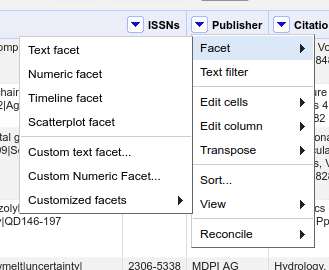
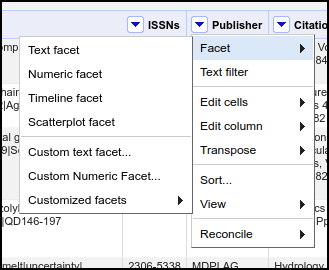
site deploy
Auto-generated via `{sandpaper}`
Source  : be62de8b346116945840560bec204c666f98137d
Branch  : md-outputs
Author  : GitHub Actions <actions@github.com>
Time    : 2025-09-02 18:59:36 +0000
Message : markdown source builds

Auto-generated via `{sandpaper}`
Source  : 20f233128f84c9abb1ff4f1b21176bd181319808
Branch  : main
Author  : Jeff Oliver <jcoliver@arizona.edu>
Time    : 2025-09-02 18:56:14 +0000
Message : Add border to two OpenRefine screenshots

Changed region(s): [[0.0, 0.0, 1.0, 1.0]]

diff --git a/instructor/aio.html b/instructor/aio.html
@@ -849,7 +849,7 @@ continuing.</p>
 <button class="accordion-button instructor-button collapsed" type="button" data-bs-toggle="collapse" data-bs-target="#collapseInstructor1" aria-expanded="false" aria-controls="collapseInstructor1">
   <h3 class="accordion-header" id="headingInstructor1">  <div class="note-square"><i aria-hidden="true" class="callout-icon" data-feather="edit-2"></i></div> Instructor Note </h3>
 </button>
-<div id="collapseInstructor1" class="accordion-collapse collapse" data-bs-parent="#accordionInstructor1" aria-labelledby="headingInstructor1">
+<div id="collapseInstructor1" class="accordion-collapse collapse" aria-labelledby="headingInstructor1" data-bs-parent="#accordionInstructor1">
 <div class="accordion-body">
 <p>Learners may be prompted to use the Basic or Expert interface when
 VirutalBox is run for the first time. Learners should select Basic.</p>
@@ -909,7 +909,7 @@ than your normal computer?</p>
 <button class="accordion-button instructor-button collapsed" type="button" data-bs-toggle="collapse" data-bs-target="#collapseInstructor2" aria-expanded="false" aria-controls="collapseInstructor2">
   <h3 class="accordion-header" id="headingInstructor2">  <div class="note-square"><i aria-hidden="true" class="callout-icon" data-feather="edit-2"></i></div> Instructor Note </h3>
 </button>
-<div id="collapseInstructor2" class="accordion-collapse collapse" data-bs-parent="#accordionInstructor2" aria-labelledby="headingInstructor2">
+<div id="collapseInstructor2" class="accordion-collapse collapse" aria-labelledby="headingInstructor2" data-bs-parent="#accordionInstructor2">
 <div class="accordion-body">
 <p>If students get an error opening VirtualBox or importing the VM,
 there may be something you can do (reinstalling, rebooting, checking
@@ -966,7 +966,7 @@ signal” option and the “Power off the machine” option?</p>
 <button class="accordion-button solution-button collapsed" type="button" data-bs-toggle="collapse" data-bs-target="#collapseSolution1" aria-expanded="false" aria-controls="collapseSolution1">
   <h4 class="accordion-header" id="headingSolution1"> Show me the solution </h4>
 </button>
-<div id="collapseSolution1" class="accordion-collapse collapse" data-bs-parent="#accordionSolution1" aria-labelledby="headingSolution1">
+<div id="collapseSolution1" class="accordion-collapse collapse" aria-labelledby="headingSolution1" data-bs-parent="#accordionSolution1">
 <div class="accordion-body">
 <p>The “power off the machine option” is the equivalent of ripping out
 the power cable from the wall. It will immediately terminate the VM
@@ -1029,7 +1029,7 @@ the VM again?</p>
 <button class="accordion-button solution-button collapsed" type="button" data-bs-toggle="collapse" data-bs-target="#collapseSolution2" aria-expanded="false" aria-controls="collapseSolution2">
   <h4 class="accordion-header" id="headingSolution2"> Show me the solution </h4>
 </button>
-<div id="collapseSolution2" class="accordion-collapse collapse" data-bs-parent="#accordionSolution2" aria-labelledby="headingSolution2">
+<div id="collapseSolution2" class="accordion-collapse collapse" aria-labelledby="headingSolution2" data-bs-parent="#accordionSolution2">
 <div class="accordion-body">
 <p>The VM should look exactly the same as before you deleted the
 snapshot. The difference is that you will no longer be able to go back
@@ -1043,7 +1043,7 @@ to the state that was stored in the snapshot.</p>
 <button class="accordion-button spoiler-button collapsed" type="button" data-bs-toggle="collapse" data-bs-target="#collapseSpoiler1" aria-expanded="false" aria-controls="collapseSpoiler1">
   <h3 class="accordion-header" id="headingSpoiler1">  <div class="note-square"><i aria-hidden="true" class="callout-icon" data-feather="eye"></i></div> Multiple Snapshots </h3>
 </button>
-<div id="collapseSpoiler1" class="accordion-collapse collapse" data-bs-parent="#accordionSpoiler1" aria-labelledby="headingSpoiler1">
+<div id="collapseSpoiler1" class="accordion-collapse collapse" aria-labelledby="headingSpoiler1" data-bs-parent="#accordionSpoiler1">
 <div class="accordion-body">
 <p>It is possible to create multiple snapshots. This is useful to be
 able to return the state of the VM to various points in time. Creating
@@ -1123,7 +1123,7 @@ expected, why? (Feel free to do an internet search for the answer).</p>
 <button class="accordion-button solution-button collapsed" type="button" data-bs-toggle="collapse" data-bs-target="#collapseSolution3" aria-expanded="false" aria-controls="collapseSolution3">
   <h4 class="accordion-header" id="headingSolution3"> Show me the solution </h4>
 </button>
-<div id="collapseSolution3" class="accordion-collapse collapse" data-bs-parent="#accordionSolution3" aria-labelledby="headingSolution3">
+<div id="collapseSolution3" class="accordion-collapse collapse" aria-labelledby="headingSolution3" data-bs-parent="#accordionSolution3">
 <div class="accordion-body">
 <ol style="list-style-type: lower-alpha">
 <li><p>Performance should increase, especially when applications are
@@ -2093,7 +2093,7 @@ include the Dockerfile.</p>
 <button class="accordion-button solution-button collapsed" type="button" data-bs-toggle="collapse" data-bs-target="#collapseSolution1" aria-expanded="false" aria-controls="collapseSolution1">
   <h4 class="accordion-header" id="headingSolution1"> Show me the solution </h4>
 </button>
-<div id="collapseSolution1" class="accordion-collapse collapse" aria-labelledby="headingSolution1" data-bs-parent="#accordionSolution1">
+<div id="collapseSolution1" class="accordion-collapse collapse" data-bs-parent="#accordionSolution1" aria-labelledby="headingSolution1">
 <div class="accordion-body">
 <ul>
 <li>To use an analogy from architecture, Dockerfiles are a file with
@@ -2190,7 +2190,7 @@ version 3.12 (instead of Python version 3.9)</li>
 <button class="accordion-button solution-button collapsed" type="button" data-bs-toggle="collapse" data-bs-target="#collapseSolution2" aria-expanded="false" aria-controls="collapseSolution2">
   <h4 class="accordion-header" id="headingSolution2"> Update the Dockerfile </h4>
 </button>
-<div id="collapseSolution2" class="accordion-collapse collapse" aria-labelledby="headingSolution2" data-bs-parent="#accordionSolution2">
+<div id="collapseSolution2" class="accordion-collapse collapse" data-bs-parent="#accordionSolution2" aria-labelledby="headingSolution2">
 <div class="accordion-body">
 <p>To change the base image, update the information passed to the
 <code>FROM</code> command. That is, open the Dockerfile and change this
@@ -2327,7 +2327,7 @@ your changes were updated.</p>
 <button class="accordion-button solution-button collapsed" type="button" data-bs-toggle="collapse" data-bs-target="#collapseSolution3" aria-expanded="false" aria-controls="collapseSolution3">
   <h4 class="accordion-header" id="headingSolution3"> Update the Dockerfile to use Python 3.13 </h4>
 </button>
-<div id="collapseSolution3" class="accordion-collapse collapse" aria-labelledby="headingSolution3" data-bs-parent="#accordionSolution3">
+<div id="collapseSolution3" class="accordion-collapse collapse" data-bs-parent="#accordionSolution3" aria-labelledby="headingSolution3">
 <div class="accordion-body">
 <ul>
 <li>Open the Dockerfile in a text editor (we have been using nano, so
@@ -2446,7 +2446,7 @@ any links that you are not going to use.
   "creativeWorkStatus": "active",
   "url": "https://carpentries.github.io/workbench-template-md/instructor/aio.html",
   "identifier": "https://carpentries.github.io/workbench-template-md/instructor/aio.html",
-  "dateCreated": "2025-08-14",
+  "dateCreated": "2025-09-02",
   "dateModified": "2025-09-02",
   "datePublished": "2025-09-02"
 }

diff --git a/aio.html b/aio.html
@@ -851,7 +851,7 @@ signal” option and the “Power off the machine” option?</p>
 <button class="accordion-button solution-button collapsed" type="button" data-bs-toggle="collapse" data-bs-target="#collapseSolution1" aria-expanded="false" aria-controls="collapseSolution1">
   <h4 class="accordion-header" id="headingSolution1"> Show me the solution </h4>
 </button>
-<div id="collapseSolution1" class="accordion-collapse collapse" data-bs-parent="#accordionSolution1" aria-labelledby="headingSolution1">
+<div id="collapseSolution1" class="accordion-collapse collapse" aria-labelledby="headingSolution1" data-bs-parent="#accordionSolution1">
 <div class="accordion-body">
 <p>The “power off the machine option” is the equivalent of ripping out
 the power cable from the wall. It will immediately terminate the VM
@@ -914,7 +914,7 @@ the VM again?</p>
 <button class="accordion-button solution-button collapsed" type="button" data-bs-toggle="collapse" data-bs-target="#collapseSolution2" aria-expanded="false" aria-controls="collapseSolution2">
   <h4 class="accordion-header" id="headingSolution2"> Show me the solution </h4>
 </button>
-<div id="collapseSolution2" class="accordion-collapse collapse" data-bs-parent="#accordionSolution2" aria-labelledby="headingSolution2">
+<div id="collapseSolution2" class="accordion-collapse collapse" aria-labelledby="headingSolution2" data-bs-parent="#accordionSolution2">
 <div class="accordion-body">
 <p>The VM should look exactly the same as before you deleted the
 snapshot. The difference is that you will no longer be able to go back
@@ -928,7 +928,7 @@ to the state that was stored in the snapshot.</p>
 <button class="accordion-button spoiler-button collapsed" type="button" data-bs-toggle="collapse" data-bs-target="#collapseSpoiler1" aria-expanded="false" aria-controls="collapseSpoiler1">
   <h3 class="accordion-header" id="headingSpoiler1">  <div class="note-square"><i aria-hidden="true" class="callout-icon" data-feather="eye"></i></div> Multiple Snapshots </h3>
 </button>
-<div id="collapseSpoiler1" class="accordion-collapse collapse" data-bs-parent="#accordionSpoiler1" aria-labelledby="headingSpoiler1">
+<div id="collapseSpoiler1" class="accordion-collapse collapse" aria-labelledby="headingSpoiler1" data-bs-parent="#accordionSpoiler1">
 <div class="accordion-body">
 <p>It is possible to create multiple snapshots. This is useful to be
 able to return the state of the VM to various points in time. Creating
@@ -1008,7 +1008,7 @@ expected, why? (Feel free to do an internet search for the answer).</p>
 <button class="accordion-button solution-button collapsed" type="button" data-bs-toggle="collapse" data-bs-target="#collapseSolution3" aria-expanded="false" aria-controls="collapseSolution3">
   <h4 class="accordion-header" id="headingSolution3"> Show me the solution </h4>
 </button>
-<div id="collapseSolution3" class="accordion-collapse collapse" data-bs-parent="#accordionSolution3" aria-labelledby="headingSolution3">
+<div id="collapseSolution3" class="accordion-collapse collapse" aria-labelledby="headingSolution3" data-bs-parent="#accordionSolution3">
 <div class="accordion-body">
 <ol style="list-style-type: lower-alpha">
 <li><p>Performance should increase, especially when applications are
@@ -1936,7 +1936,7 @@ include the Dockerfile.</p>
 <button class="accordion-button solution-button collapsed" type="button" data-bs-toggle="collapse" data-bs-target="#collapseSolution1" aria-expanded="false" aria-controls="collapseSolution1">
   <h4 class="accordion-header" id="headingSolution1"> Show me the solution </h4>
 </button>
-<div id="collapseSolution1" class="accordion-collapse collapse" aria-labelledby="headingSolution1" data-bs-parent="#accordionSolution1">
+<div id="collapseSolution1" class="accordion-collapse collapse" data-bs-parent="#accordionSolution1" aria-labelledby="headingSolution1">
 <div class="accordion-body">
 <ul>
 <li>To use an analogy from architecture, Dockerfiles are a file with
@@ -2033,7 +2033,7 @@ version 3.12 (instead of Python version 3.9)</li>
 <button class="accordion-button solution-button collapsed" type="button" data-bs-toggle="collapse" data-bs-target="#collapseSolution2" aria-expanded="false" aria-controls="collapseSolution2">
   <h4 class="accordion-header" id="headingSolution2"> Update the Dockerfile </h4>
 </button>
-<div id="collapseSolution2" class="accordion-collapse collapse" aria-labelledby="headingSolution2" data-bs-parent="#accordionSolution2">
+<div id="collapseSolution2" class="accordion-collapse collapse" data-bs-parent="#accordionSolution2" aria-labelledby="headingSolution2">
 <div class="accordion-body">
 <p>To change the base image, update the information passed to the
 <code>FROM</code> command. That is, open the Dockerfile and change this
@@ -2170,7 +2170,7 @@ your changes were updated.</p>
 <button class="accordion-button solution-button collapsed" type="button" data-bs-toggle="collapse" data-bs-target="#collapseSolution3" aria-expanded="false" aria-controls="collapseSolution3">
   <h4 class="accordion-header" id="headingSolution3"> Update the Dockerfile to use Python 3.13 </h4>
 </button>
-<div id="collapseSolution3" class="accordion-collapse collapse" aria-labelledby="headingSolution3" data-bs-parent="#accordionSolution3">
+<div id="collapseSolution3" class="accordion-collapse collapse" data-bs-parent="#accordionSolution3" aria-labelledby="headingSolution3">
 <div class="accordion-body">
 <ul>
 <li>Open the Dockerfile in a text editor (we have been using nano, so
@@ -2289,7 +2289,7 @@ any links that you are not going to use.
   "creativeWorkStatus": "active",
   "url": "https://carpentries.github.io/workbench-template-md/aio.html",
   "identifier": "https://carpentries.github.io/workbench-template-md/aio.html",
-  "dateCreated": "2025-08-14",
+  "dateCreated": "2025-09-02",
   "dateModified": "2025-09-02",
   "datePublished": "2025-09-02"
 }

diff --git a/instructor/virtualmachines.html b/instructor/virtualmachines.html
@@ -367,7 +367,7 @@ continuing.</p>
 <button class="accordion-button instructor-button collapsed" type="button" data-bs-toggle="collapse" data-bs-target="#collapseInstructor1" aria-expanded="false" aria-controls="collapseInstructor1">
   <h3 class="accordion-header" id="headingInstructor1">  <div class="note-square"><i aria-hidden="true" class="callout-icon" data-feather="edit-2"></i></div> Instructor Note </h3>
 </button>
-<div id="collapseInstructor1" class="accordion-collapse collapse" data-bs-parent="#accordionInstructor1" aria-labelledby="headingInstructor1">
+<div id="collapseInstructor1" class="accordion-collapse collapse" aria-labelledby="headingInstructor1" data-bs-parent="#accordionInstructor1">
 <div class="accordion-body">
 <p>Learners may be prompted to use the Basic or Expert interface when
 VirutalBox is run for the first time. Learners should select Basic.</p>
@@ -423,7 +423,7 @@ than your normal computer?</p>
 <button class="accordion-button instructor-button collapsed" type="button" data-bs-toggle="collapse" data-bs-target="#collapseInstructor2" aria-expanded="false" aria-controls="collapseInstructor2">
   <h3 class="accordion-header" id="headingInstructor2">  <div class="note-square"><i aria-hidden="true" class="callout-icon" data-feather="edit-2"></i></div> Instructor Note </h3>
 </button>
-<div id="collapseInstructor2" class="accordion-collapse collapse" data-bs-parent="#accordionInstructor2" aria-labelledby="headingInstructor2">
+<div id="collapseInstructor2" class="accordion-collapse collapse" aria-labelledby="headingInstructor2" data-bs-parent="#accordionInstructor2">
 <div class="accordion-body">
 <p>If students get an error opening VirtualBox or importing the VM,
 there may be something you can do (reinstalling, rebooting, checking
@@ -475,7 +475,7 @@ signal” option and the “Power off the machine” option?</p>
 <button class="accordion-button solution-button collapsed" type="button" data-bs-toggle="collapse" data-bs-target="#collapseSolution1" aria-expanded="false" aria-controls="collapseSolution1">
   <h4 class="accordion-header" id="headingSolution1"> Show me the solution </h4>
 </button>
-<div id="collapseSolution1" class="accordion-collapse collapse" data-bs-parent="#accordionSolution1" aria-labelledby="headingSolution1">
+<div id="collapseSolution1" class="accordion-collapse collapse" aria-labelledby="headingSolution1" data-bs-parent="#accordionSolution1">
 <div class="accordion-body">
 <p>The “power off the machine option” is the equivalent of ripping out
 the power cable from the wall. It will immediately terminate the VM
@@ -533,7 +533,7 @@ the VM again?</p>
 <button class="accordion-button solution-button collapsed" type="button" data-bs-toggle="collapse" data-bs-target="#collapseSolution2" aria-expanded="false" aria-controls="collapseSolution2">
   <h4 class="accordion-header" id="headingSolution2"> Show me the solution </h4>
 </button>
-<div id="collapseSolution2" class="accordion-collapse collapse" data-bs-parent="#accordionSolution2" aria-labelledby="headingSolution2">
+<div id="collapseSolution2" class="accordion-collapse collapse" aria-labelledby="headingSolution2" data-bs-parent="#accordionSolution2">
 <div class="accordion-body">
 <p>The VM should look exactly the same as before you deleted the
 snapshot. The difference is that you will no longer be able to go back
@@ -547,7 +547,7 @@ to the state that was stored in the snapshot.</p>
 <button class="accordion-button spoiler-button collapsed" type="button" data-bs-toggle="collapse" data-bs-target="#collapseSpoiler1" aria-expanded="false" aria-controls="collapseSpoiler1">
   <h3 class="accordion-header" id="headingSpoiler1">  <div class="note-square"><i aria-hidden="true" class="callout-icon" data-feather="eye"></i></div> Multiple Snapshots </h3>
 </button>
-<div id="collapseSpoiler1" class="accordion-collapse collapse" data-bs-parent="#accordionSpoiler1" aria-labelledby="headingSpoiler1">
+<div id="collapseSpoiler1" class="accordion-collapse collapse" aria-labelledby="headingSpoiler1" data-bs-parent="#accordionSpoiler1">
 <div class="accordion-body">
 <p>It is possible to create multiple snapshots. This is useful to be
 able to return the state of the VM to various points in time. Creating
@@ -623,7 +623,7 @@ expected, why? (Feel free to do an internet search for the answer).</p>
 <button class="accordion-button solution-button collapsed" type="button" data-bs-toggle="collapse" data-bs-target="#collapseSolution3" aria-expanded="false" aria-controls="collapseSolution3">
   <h4 class="accordion-header" id="headingSolution3"> Show me the solution </h4>
 </button>
-<div id="collapseSolution3" class="accordion-collapse collapse" data-bs-parent="#accordionSolution3" aria-labelledby="headingSolution3">
+<div id="collapseSolution3" class="accordion-collapse collapse" aria-labelledby="headingSolution3" data-bs-parent="#accordionSolution3">
 <div class="accordion-body">
 <ol style="list-style-type: lower-alpha"><li><p>Performance should increase, especially when applications are
 loading a lot of data into memory. Web browsers are especially heavy
@@ -713,7 +713,7 @@ any links that you are not going to use.
   "creativeWorkStatus": "active",
   "url": "https://carpentries.github.io/workbench-template-md/instructor/virtualmachines.html",
   "identifier": "https://carpentries.github.io/workbench-template-md/instructor/virtualmachines.html",
-  "dateCreated": "2025-08-14",
+  "dateCreated": "2025-09-02",
   "dateModified": "2025-08-14",
   "datePublished": "2025-09-02"
 }

diff --git a/virtualmachines.html b/virtualmachines.html
@@ -428,7 +428,7 @@ signal” option and the “Power off the machine” option?</p>
 <button class="accordion-button solution-button collapsed" type="button" data-bs-toggle="collapse" data-bs-target="#collapseSolution1" aria-expanded="false" aria-controls="collapseSolution1">
   <h4 class="accordion-header" id="headingSolution1"> Show me the solution </h4>
 </button>
-<div id="collapseSolution1" class="accordion-collapse collapse" data-bs-parent="#accordionSolution1" aria-labelledby="headingSolution1">
+<div id="collapseSolution1" class="accordion-collapse collapse" aria-labelledby="headingSolution1" data-bs-parent="#accordionSolution1">
 <div class="accordion-body">
 <p>The “power off the machine option” is the equivalent of ripping out
 the power cable from the wall. It will immediately terminate the VM
@@ -486,7 +486,7 @@ the VM again?</p>
 <button class="accordion-button solution-button collapsed" type="button" data-bs-toggle="collapse" data-bs-target="#collapseSolution2" aria-expanded="false" aria-controls="collapseSolution2">
   <h4 class="accordion-header" id="headingSolution2"> Show me the solution </h4>
 </button>
-<div id="collapseSolution2" class="accordion-collapse collapse" data-bs-parent="#accordionSolution2" aria-labelledby="headingSolution2">
+<div id="collapseSolution2" class="accordion-collapse collapse" aria-labelledby="headingSolution2" data-bs-parent="#accordionSolution2">
 <div class="accordion-body">
 <p>The VM should look exactly the same as before you deleted the
 snapshot. The difference is that you will no longer be able to go back
@@ -500,7 +500,7 @@ to the state that was stored in the snapshot.</p>
 <button class="accordion-button spoiler-button collapsed" type="button" data-bs-toggle="collapse" data-bs-target="#collapseSpoiler1" aria-expanded="false" aria-controls="collapseSpoiler1">
   <h3 class="accordion-header" id="headingSpoiler1">  <div class="note-square"><i aria-hidden="true" class="callout-icon" data-feather="eye"></i></div> Multiple Snapshots </h3>
 </button>
-<div id="collapseSpoiler1" class="accordion-collapse collapse" data-bs-parent="#accordionSpoiler1" aria-labelledby="headingSpoiler1">
+<div id="collapseSpoiler1" class="accordion-collapse collapse" aria-labelledby="headingSpoiler1" data-bs-parent="#accordionSpoiler1">
 <div class="accordion-body">
 <p>It is possible to create multiple snapshots. This is useful to be
 able to return the state of the VM to various points in time. Creating
@@ -576,7 +576,7 @@ expected, why? (Feel free to do an internet search for the answer).</p>
 <button class="accordion-button solution-button collapsed" type="button" data-bs-toggle="collapse" data-bs-target="#collapseSolution3" aria-expanded="false" aria-controls="collapseSolution3">
   <h4 class="accordion-header" id="headingSolution3"> Show me the solution </h4>
 </button>
-<div id="collapseSolution3" class="accordion-collapse collapse" data-bs-parent="#accordionSolution3" aria-labelledby="headingSolution3">
+<div id="collapseSolution3" class="accordion-collapse collapse" aria-labelledby="headingSolution3" data-bs-parent="#accordionSolution3">
 <div class="accordion-body">
 <ol style="list-style-type: lower-alpha"><li><p>Performance should increase, especially when applications are
 loading a lot of data into memory. Web browsers are especially heavy
@@ -666,7 +666,7 @@ any links that you are not going to use.
   "creativeWorkStatus": "active",
   "url": "https://carpentries.github.io/workbench-template-md/virtualmachines.html",
   "identifier": "https://carpentries.github.io/workbench-template-md/virtualmachines.html",
-  "dateCreated": "2025-08-14",
+  "dateCreated": "2025-09-02",
   "dateModified": "2025-08-14",
   "datePublished": "2025-09-02"
 }

diff --git a/instructor/containers-part2.html b/instructor/containers-part2.html
@@ -527,7 +527,7 @@ include the Dockerfile.</p>
 <button class="accordion-button solution-button collapsed" type="button" data-bs-toggle="collapse" data-bs-target="#collapseSolution1" aria-expanded="false" aria-controls="collapseSolution1">
   <h4 class="accordion-header" id="headingSolution1"> Show me the solution </h4>
 </button>
-<div id="collapseSolution1" class="accordion-collapse collapse" aria-labelledby="headingSolution1" data-bs-parent="#accordionSolution1">
+<div id="collapseSolution1" class="accordion-collapse collapse" data-bs-parent="#accordionSolution1" aria-labelledby="headingSolution1">
 <div class="accordion-body">
 <ul><li>To use an analogy from architecture, Dockerfiles are a file with
 blueprints, images are the <em>rendered or printed</em> blueprints, and
@@ -619,7 +619,7 @@ version 3.12 (instead of Python version 3.9)</li>
 <button class="accordion-button solution-button collapsed" type="button" data-bs-toggle="collapse" data-bs-target="#collapseSolution2" aria-expanded="false" aria-controls="collapseSolution2">
   <h4 class="accordion-header" id="headingSolution2"> Update the Dockerfile </h4>
 </button>
-<div id="collapseSolution2" class="accordion-collapse collapse" aria-labelledby="headingSolution2" data-bs-parent="#accordionSolution2">
+<div id="collapseSolution2" class="accordion-collapse collapse" data-bs-parent="#accordionSolution2" aria-labelledby="headingSolution2">
 <div class="accordion-body">
 <p>To change the base image, update the information passed to the
 <code>FROM</code> command. That is, open the Dockerfile and change this
@@ -748,7 +748,7 @@ your changes were updated.</p>
 <button class="accordion-button solution-button collapsed" type="button" data-bs-toggle="collapse" data-bs-target="#collapseSolution3" aria-expanded="false" aria-controls="collapseSolution3">
   <h4 class="accordion-header" id="headingSolution3"> Update the Dockerfile to use Python 3.13 </h4>
 </button>
-<div id="collapseSolution3" class="accordion-collapse collapse" aria-labelledby="headingSolution3" data-bs-parent="#accordionSolution3">
+<div id="collapseSolution3" class="accordion-collapse collapse" data-bs-parent="#accordionSolution3" aria-labelledby="headingSolution3">
 <div class="accordion-body">
 <ul><li>Open the Dockerfile in a text editor (we have been using nano, so
 you can run, in the command line terminal, <code>nano Dockerfile</code>
@@ -865,7 +865,7 @@ any links that you are not going to use.
   "creativeWorkStatus": "active",
   "url": "https://carpentries.github.io/workbench-template-md/instructor/containers-part2.html",
   "identifier": "https://carpentries.github.io/workbench-template-md/instructor/containers-part2.html",
-  "dateCreated": "2025-08-14",
+  "dateCreated": "2025-09-02",
   "dateModified": "2025-06-24",
   "datePublished": "2025-09-02"
 }

diff --git a/containers-part2.html b/containers-part2.html
@@ -525,7 +525,7 @@ include the Dockerfile.</p>
 <button class="accordion-button solution-button collapsed" type="button" data-bs-toggle="collapse" data-bs-target="#collapseSolution1" aria-expanded="false" aria-controls="collapseSolution1">
   <h4 class="accordion-header" id="headingSolution1"> Show me the solution </h4>
 </button>
-<div id="collapseSolution1" class="accordion-collapse collapse" aria-labelledby="headingSolution1" data-bs-parent="#accordionSolution1">
+<div id="collapseSolution1" class="accordion-collapse collapse" data-bs-parent="#accordionSolution1" aria-labelledby="headingSolution1">
 <div class="accordion-body">
 <ul><li>To use an analogy from architecture, Dockerfiles are a file with
 blueprints, images are the <em>rendered or printed</em> blueprints, and
@@ -617,7 +617,7 @@ version 3.12 (instead of Python version 3.9)</li>
 <button class="accordion-button solution-button collapsed" type="button" data-bs-toggle="collapse" data-bs-target="#collapseSolution2" aria-expanded="false" aria-controls="collapseSolution2">
   <h4 class="accordion-header" id="headingSolution2"> Update the Dockerfile </h4>
 </button>
-<div id="collapseSolution2" class="accordion-collapse collapse" aria-labelledby="headingSolution2" data-bs-parent="#accordionSolution2">
+<div id="collapseSolution2" class="accordion-collapse collapse" data-bs-parent="#accordionSolution2" aria-labelledby="headingSolution2">
 <div class="accordion-body">
 <p>To change the base image, update the information passed to the
 <code>FROM</code> command. That is, open the Dockerfile and change this
@@ -746,7 +746,7 @@ your changes were updated.</p>
 <button class="accordion-button solution-button collapsed" type="button" data-bs-toggle="collapse" data-bs-target="#collapseSolution3" aria-expanded="false" aria-controls="collapseSolution3">
   <h4 class="accordion-header" id="headingSolution3"> Update the Dockerfile to use Python 3.13 </h4>
 </button>
-<div id="collapseSolution3" class="accordion-collapse collapse" aria-labelledby="headingSolution3" data-bs-parent="#accordionSolution3">
+<div id="collapseSolution3" class="accordion-collapse collapse" data-bs-parent="#accordionSolution3" aria-labelledby="headingSolution3">
 <div class="accordion-body">
 <ul><li>Open the Dockerfile in a text editor (we have been using nano, so
 you can run, in the command line terminal, <code>nano Dockerfile</code>
@@ -863,7 +863,7 @@ any links that you are not going to use.
   "creativeWorkStatus": "active",
   "url": "https://carpentries.github.io/workbench-template-md/containers-part2.html",
   "identifier": "https://carpentries.github.io/workbench-template-md/containers-part2.html",
-  "dateCreated": "2025-08-14",
+  "dateCreated": "2025-09-02",
   "dateModified": "2025-06-24",
   "datePublished": "2025-09-02"
 }

diff --git a/instructor/containers-part1.html b/instructor/containers-part1.html
@@ -1028,7 +1028,7 @@ any links that you are not going to use.
   "creativeWorkStatus": "active",
   "url": "https://carpentries.github.io/workbench-template-md/instructor/containers-part1.html",
   "identifier": "https://carpentries.github.io/workbench-template-md/instructor/containers-part1.html",
-  "dateCreated": "2025-08-14",
+  "dateCreated": "2025-09-02",
   "dateModified": "2025-07-09",
   "datePublished": "2025-09-02"
 }

diff --git a/instructor/CODE_OF_CONDUCT.html b/instructor/CODE_OF_CONDUCT.html
@@ -381,7 +381,7 @@ any links that you are not going to use.
   "creativeWorkStatus": "active",
   "url": "https://carpentries.github.io/workbench-template-md/instructor/CODE_OF_CONDUCT.html",
   "identifier": "https://carpentries.github.io/workbench-template-md/instructor/CODE_OF_CONDUCT.html",
-  "dateCreated": "2025-08-14",
+  "dateCreated": "2025-09-02",
   "dateModified": "2022-08-05",
   "datePublished": "2025-09-02"
 }

diff --git a/instructor/introduction.html b/instructor/introduction.html
@@ -755,7 +755,7 @@ any links that you are not going to use.
   "creativeWorkStatus": "active",
   "url": "https://carpentries.github.io/workbench-template-md/instructor/introduction.html",
   "identifier": "https://carpentries.github.io/workbench-template-md/instructor/introduction.html",
-  "dateCreated": "2025-08-14",
+  "dateCreated": "2025-09-02",
   "dateModified": "2025-06-05",
   "datePublished": "2025-09-02"
 }

diff --git a/instructor/reference.html b/instructor/reference.html
@@ -425,7 +425,7 @@ any links that you are not going to use.
   "creativeWorkStatus": "active",
   "url": "https://carpentries.github.io/workbench-template-md/instructor/reference.html",
   "identifier": "https://carpentries.github.io/workbench-template-md/instructor/reference.html",
-  "dateCreated": "2025-08-14",
+  "dateCreated": "2025-09-02",
   "dateModified": "2024-10-14",
   "datePublished": "2025-09-02"
 }

diff --git a/instructor/profiles.html b/instructor/profiles.html
@@ -333,7 +333,7 @@ any links that you are not going to use.
   "creativeWorkStatus": "active",
   "url": "https://carpentries.github.io/workbench-template-md/instructor/profiles.html",
   "identifier": "https://carpentries.github.io/workbench-template-md/instructor/profiles.html",
-  "dateCreated": "2025-08-14",
+  "dateCreated": "2025-09-02",
   "dateModified": "2025-09-02",
   "datePublished": "2025-09-02"
 }

diff --git a/instructor/LICENSE.html b/instructor/LICENSE.html
@@ -429,7 +429,7 @@ any links that you are not going to use.
   "creativeWorkStatus": "active",
   "url": "https://carpentries.github.io/workbench-template-md/instructor/LICENSE.html",
   "identifier": "https://carpentries.github.io/workbench-template-md/instructor/LICENSE.html",
-  "dateCreated": "2025-08-14",
+  "dateCreated": "2025-09-02",
   "dateModified": "2023-04-07",
   "datePublished": "2025-09-02"
 }
